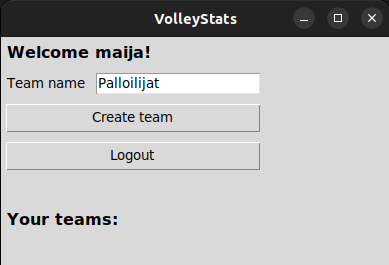
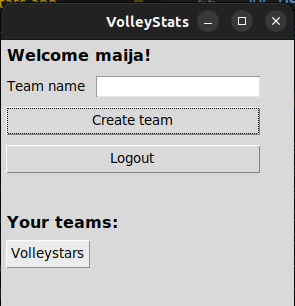
Documentation update

diff --git a/volleystats-app/dokumentaatio/arkkitehtuuri.md b/volleystats-app/dokumentaatio/arkkitehtuuri.md
@@ -4,6 +4,7 @@
 
 The application's layered architecture has three main layers that are the UI layer, the Services layer and the Repositories layer. The relations between the layers are shown in the pacakge diagram. The UI components use the Services and the Services use Repositories. Each layer depends only on the layer below it.
 ![Package diagram](./images/achitecture_package_diagram.png)
+
 The UI layer contains all of the user interface components. The Services layer contains the business logic and acts as a middleware between UI and data storage. The Repositories layer handles the data storage and retrieval and communicates with the database.
 
 ## User Interface
@@ -14,8 +15,9 @@ The user interface has four different views. The views are handled by separate c
 - Registration view (RegistrationView)
 - Main page view (LoggedInView)
 - Team view (TeamView)
+- Game view (GameView)
 
-The UI follows a single-view-at-a-time principle so only one view is visible at once. When the application is started, the Login view appears. From there the user has to first go to the Registration view from where they can create a new user and the log in. The Main page view appears after a successful login. The Main page view includes features: creating new teams, displaying user's teams as clickable buttons and logging out. When a team is clicked, the Team view opens. The Team view includes features: adding players to teams, displaying team roster, starting new games, showing game history and returning to main page.
+The UI follows a single-view-at-a-time principle so only one view is visible at once. When the application is started, the Login view appears. From there the user has to first go to the Registration view from where they can create a new user and the log in. The Main page view appears after a successful login. The Main page view includes features: creating new teams, displaying user's teams as clickable buttons and logging out. When a team is clicked, the Team view opens. The Team view includes features: adding players to teams, displaying team roster, starting new games, showing game history and returning to main page. The Game view shows the players that are included in the team.
 
 ## Main Functionalities
 
@@ -40,3 +42,23 @@ sequenceDiagram
   UserService-->>UI: user
   UI->>UI: show_login_view()
 ```
+
+### Sequence diagram: logging in
+
+When user inputs their username and password and clicks "Login", the control of the application proceeds as follows:
+
+```mermaid
+sequenceDiagram
+    actor User
+    participant UI
+    participant UserService
+    participant UserRepository
+    User->>UI: click "Login" button
+    UI->>UserService: login("paavo", "kissa123")
+    UserService->>UserRepository: find_by_username("paavo")
+    UserRepository-->>UserService: user
+    UserService-->>UI: True
+    UI->>UI: show_logged_in_view()
+```
+
+The sequence starts when user clicks the login button. The UI calls UserService's login method with the given credentials. UserService asks UserRepository to find the user by username. If user exists and password matches, UserService returns True to UI, which then switches to the logged in view.

diff --git a/volleystats-app/dokumentaatio/tuntikirjanpito.md b/volleystats-app/dokumentaatio/tuntikirjanpito.md
@@ -12,5 +12,5 @@
 | 14.4. | 2,0      | Working on adding a new team and sequence diagram                                                          |
 | 15.4. | 3,0      | Tests for new functionalities, database configuration improvements, adding teams and players functionality |
 | 27.4. | 5,0      | Instructions, docstring, new functionality: creating a game, tests, documentation                          |
-| 28.4. | 1,0      | New functionality: games page                                                                              |
-|  Sum  | 24       |                                                                                                            |
+| 28.4. | 3,0      | New functionality: games page. Documentation                                                               |
+|  Sum  | 26       |                                                                                                            |

diff --git a/volleystats-app/dokumentaatio/kayttoohje.md b/volleystats-app/dokumentaatio/kayttoohje.md
@@ -35,5 +35,12 @@ To add a new team, just type a team name that has not been used and then click _
 
 On the team's page, you can add a new player to the team. Add the name of the player and the jersey number and then click _Add player_ and the name of the player will appear on the screen.
 
-![Adding a new player](./images/addplayer.png)
+![Team page](./images/player_view.png)
+![Adding a new player](./images/addplayer1.png)
+
+### Starting a game
+
+You can click _Start new game_ and then you get a time stamp of when the game has been started. Then you can click the Game-button and you get the game view where you can see the players in the game.
+
 ![Players view](./images/players.png)
+![Players view](./images/roster.png)
